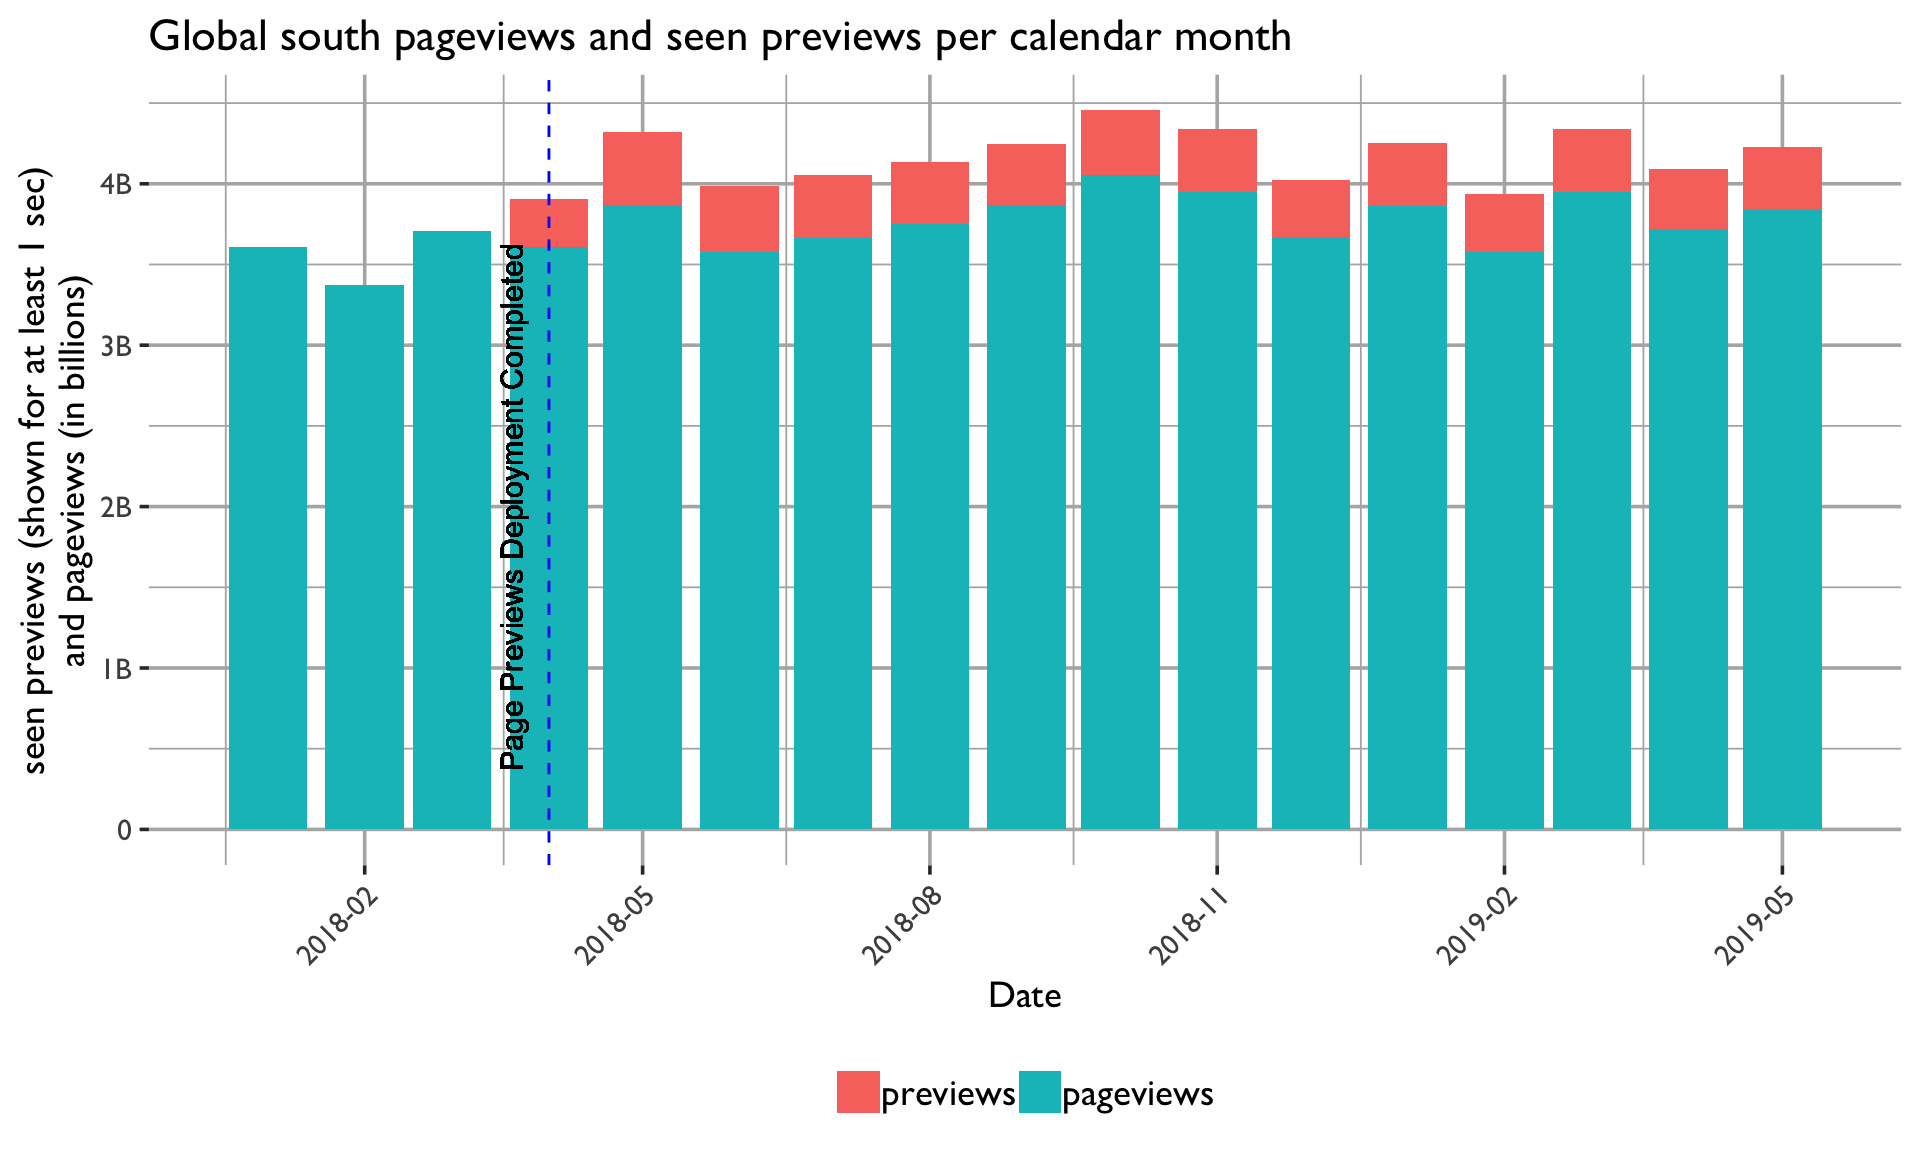
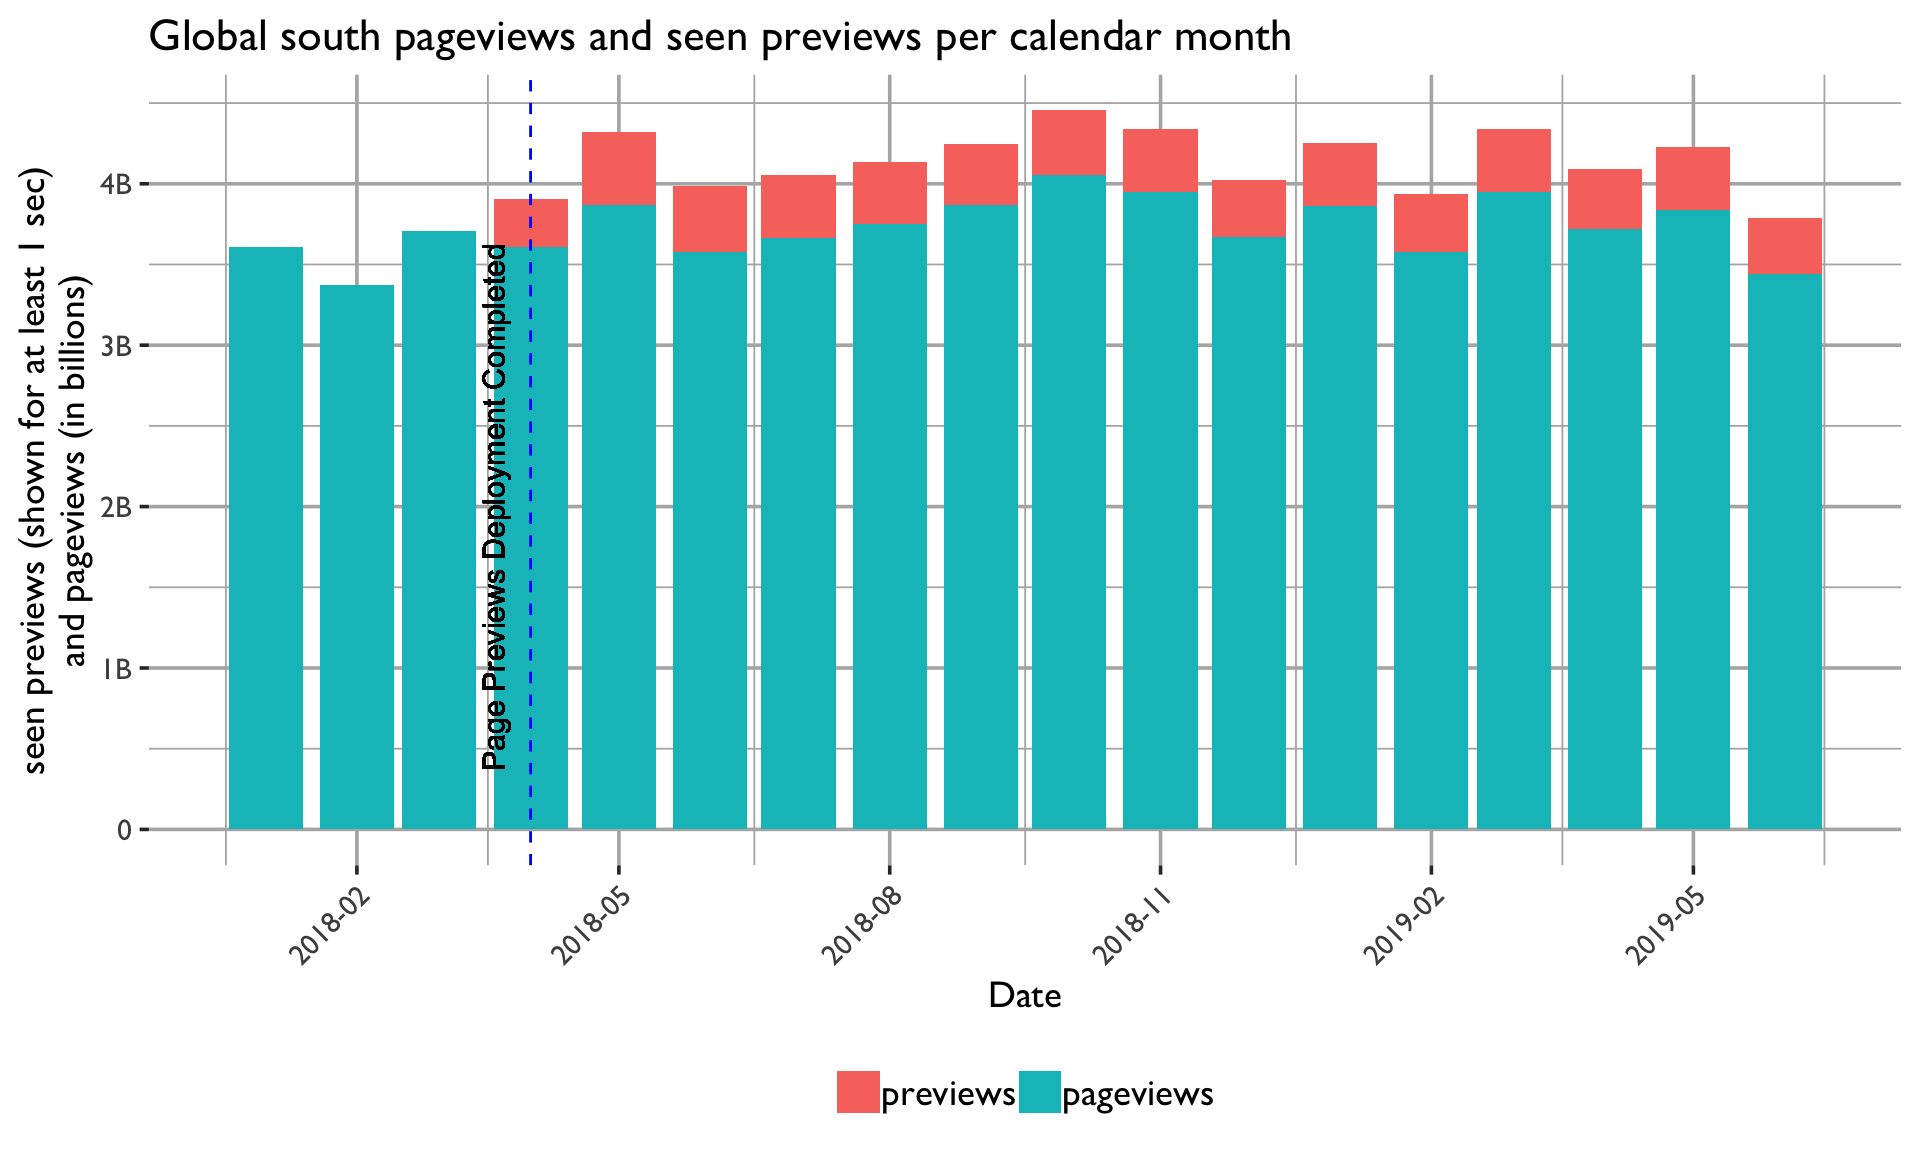
updated June 2019 metrics

diff --git a/01_interactions_metrics.md b/01_interactions_metrics.md
@@ -62,12 +62,12 @@ tail(pageviews_all_monthly)
     ## # A tibble: 6 x 4
     ##   date       monthly_views yearOverYear type     
     ##   <date>             <dbl>        <dbl> <chr>    
-    ## 1 2018-12-01   15421572637      0.0308  pageviews
-    ## 2 2019-01-01   16854424374      0.00953 pageviews
-    ## 3 2019-02-01   14994451563      0.00688 pageviews
-    ## 4 2019-03-01   16323127594      0.00543 pageviews
-    ## 5 2019-04-01   15661204060      0.0137  pageviews
-    ## 6 2019-05-01   16328875602      0.0154  pageviews
+    ## 1 2019-01-01   16854424374      0.00953 pageviews
+    ## 2 2019-02-01   14994451563      0.00688 pageviews
+    ## 3 2019-03-01   16323127594      0.00543 pageviews
+    ## 4 2019-04-01   15661204060      0.0137  pageviews
+    ## 5 2019-05-01   16328875602      0.0154  pageviews
+    ## 6 2019-06-01   14840496959     -0.00905 pageviews
 
 Create time series chart of monthly pageviews
 
@@ -78,9 +78,8 @@ p <- ggplot(pageviews_all_monthly, aes(x = date, y = monthly_views)) + geom_line
     y = 1.6e+10, label = "Page previews deployment completed"), size = 3.5, 
     vjust = -1.2, angle = 90, color = "black") + scale_y_continuous("pageviews per month (in billions)", 
     labels = polloi::compress) + scale_x_date("Date", labels = date_format("%b %Y"), 
-    date_breaks = "2 months", limits = as.Date(c("2017-01-01", "2019-05-01"))) + 
-    labs(title = "Monthly Wikimedia pageviews") + ggthemes::theme_tufte(base_size = 12, 
-    base_family = "Gill Sans") + theme(axis.text.x = element_text(angle = 45, 
+    date_breaks = "2 months") + labs(title = "Monthly Wikimedia pageviews") + 
+    ggthemes::theme_tufte(base_size = 12, base_family = "Gill Sans") + theme(axis.text.x = element_text(angle = 45, 
     hjust = 1), plot.title = element_text(hjust = 0.5), panel.grid = element_line("gray70"))
 
 ggsave(filename = "Monthly pageviews monthly time series.png", plot = p, path = "figures", 
@@ -109,12 +108,12 @@ tail(pageviews_desktop)
     ## # A tibble: 6 x 3
     ##   date       monthly_views yearOveryear
     ##   <date>             <dbl>        <dbl>
-    ## 1 2018-12-01    6335150624      -0.0858
-    ## 2 2019-01-01    6985972077      -0.0941
-    ## 3 2019-02-01    6264340878      -0.0911
-    ## 4 2019-03-01    6740714008      -0.104 
-    ## 5 2019-04-01    6407008283      -0.0941
-    ## 6 2019-05-01    6630746673      -0.0831
+    ## 1 2019-01-01    6985972077      -0.0941
+    ## 2 2019-02-01    6264340878      -0.0911
+    ## 3 2019-03-01    6740714008      -0.104 
+    ## 4 2019-04-01    6407008283      -0.0941
+    ## 5 2019-05-01    6630746673      -0.0831
+    ## 6 2019-06-01    5790501161      -0.119
 
 Calculate mobile web pageview and year over year comparison
 
@@ -133,12 +132,12 @@ tail(pageviews_mobileweb)
     ## # A tibble: 6 x 3
     ##   date       monthly_views yearOveryear
     ##   <date>             <dbl>        <dbl>
-    ## 1 2018-12-01    8834866942       0.133 
-    ## 2 2019-01-01    9601003581       0.0997
-    ## 3 2019-02-01    8500267968       0.0927
-    ## 4 2019-03-01    9330934371       0.101 
-    ## 5 2019-04-01    9013609978       0.107 
-    ## 6 2019-05-01    9442723863       0.0978
+    ## 1 2019-01-01    9601003581       0.0997
+    ## 2 2019-02-01    8500267968       0.0927
+    ## 3 2019-03-01    9330934371       0.101 
+    ## 4 2019-04-01    9013609978       0.107 
+    ## 5 2019-05-01    9442723863       0.0978
+    ## 6 2019-06-01    8804953590       0.0782
 
 Quality check: Review all access methods together
 
@@ -154,7 +153,7 @@ p <- ggplot(pageviews_byaccess, aes(x=date, y = (views/1000000), color = access_
              linetype = "dashed", color = "blue") +
   geom_text(aes(x=as.Date('2018-12-25'), y=250, label="Christmas"), size=4, vjust = -1.2, angle = 90, color = "black") +
   scale_y_continuous("daily pageviews (in millions)") +
-  scale_x_date("Date", labels = date_format("%Y-%m-%d"), date_breaks = "2 months", limits= as.Date(c("2018-01-01", "2019-05-01"))) +
+  scale_x_date("Date", labels = date_format("%Y-%m-%d"), date_breaks = "2 months", limits= as.Date(c("2018-01-01", "2019-07-01"))) +
   labs(title = "Total daily Wikimedia pageviews by access method") +
   ggthemes::theme_tufte(base_size = 12, base_family = "Gill Sans") +
   theme(axis.text.x=element_text(angle = 45, hjust = 1),
@@ -167,7 +166,7 @@ p
 
 ![](figures/md_figs/unnamed-chunk-8-1.png)
 
-Create YOY Chart comparing the current fiscal year with the previous fical year.
+Create YOY Chart comparing the current fiscal year with the previous fical year. TODO: Adjust for FY 2019/2020 starting next month (July 2019)
 
 ``` r
 # Various adjustments to allow for fiscal year comparison.
@@ -186,7 +185,7 @@ p <- ggplot(pageviews_all_monthly_fy, aes(x = MonthN, y = monthly_views, group =
     label = "Page previews deployment completed (April 2018)"), size = 4, vjust = -1.2, 
     angle = 90, color = "black") + scale_y_continuous("pageviews per month (in billions)", 
     labels = polloi::compress) + scale_x_discrete(breaks = pageviews_all_monthly_fy$MonthN, 
-    labels = pageviews_all_monthly_fy$Month) + labs(title = "Wikimedia pageviews year-over-year comparison, July 2017-May 2019") + 
+    labels = pageviews_all_monthly_fy$Month) + labs(title = "Wikimedia pageviews year-over-year comparison, July 2017-June 2019") + 
     ggthemes::theme_tufte(base_size = 14, base_family = "Gill Sans") + theme(plot.title = element_text(hjust = 0.5), 
     legend.title = element_blank(), legend.position = "bottom", panel.grid = element_line("gray70"), 
     legend.key.width = unit(1.5, "cm")) + xlab("Month") + scale_linetype_manual(breaks = c("FY 2017/2018", 
@@ -205,7 +204,8 @@ Monthly Previews on Desktop Wikipedia
 ``` r
 # Get daily page previews seen on desktop Wikipedia since deployment in
 # April 2018
-query <- "
+q
+ry <- "
 SELECT year, month, day, CONCAT(year,'-',LPAD(month,2,'0'),'-',LPAD(day,2,'0')) AS date,
   SUM(view_count) AS previews_seen
   FROM wmf.virtualpageview_hourly 
@@ -213,7 +213,8 @@ SELECT year, month, day, CONCAT(year,'-',LPAD(month,2,'0'),'-',LPAD(day,2,'0')) 
   GROUP BY year, month, day
   ORDER BY year, month, day LIMIT 10000;
 "
-results <- collect(sql(query))
+results <- collect(sql(q
+ry))
 save(results, file = "Data/page_previews.tsv")
 ```
 
@@ -221,15 +222,10 @@ save(results, file = "Data/page_previews.tsv")
 previews <- read.delim("data/page_previews.tsv", sep = "\t")
 previews$date <- as.Date(previews$date, format = "%Y-%m-%d")
 
-previews_all_monthly <- previews %>%
-  select(-c(1,2,3)) %>%
-  mutate(date = floor_date(date, "month"))  %>%
-  filter(date <= '2019-05-01') %>% #Filter out incomplete months
-  group_by(date) %>%
-  summarise(monthly_views = sum(as.numeric(previews_seen))) %>%
-  arrange(date) %>%
-  mutate(yearOverYear= monthly_views/lag(monthly_views,12) -1) %>%
-  mutate(type = "previews")
+previews_all_monthly <- previews %>% select(-c(1, 2, 3)) %>% mutate(date = floor_date(date, 
+    "month")) %>% group_by(date) %>% summarise(monthly_views = sum(as.numeric(previews_seen))) %>% 
+    arrange(date) %>% mutate(yearOverYear = monthly_views/lag(monthly_views, 
+    12) - 1) %>% mutate(type = "previews")
 
 tail(previews_all_monthly)
 ```
@@ -237,12 +233,12 @@ tail(previews_all_monthly)
     ## # A tibble: 6 x 4
     ##   date       monthly_views yearOverYear type    
     ##   <date>             <dbl>        <dbl> <chr>   
-    ## 1 2018-12-01    1681405560      NA      previews
-    ## 2 2019-01-01    1959035892      NA      previews
-    ## 3 2019-02-01    1738551430      NA      previews
-    ## 4 2019-03-01    1867233307      NA      previews
-    ## 5 2019-04-01    1759067428       0.367  previews
-    ## 6 2019-05-01    1850432228      -0.0584 previews
+    ## 1 2019-01-01    1959035892      NA      previews
+    ## 2 2019-02-01    1738551430      NA      previews
+    ## 3 2019-03-01    1867233307      NA      previews
+    ## 4 2019-04-01    1759067428       0.367  previews
+    ## 5 2019-05-01    1850432228      -0.0584 previews
+    ## 6 2019-06-01    1609282924      -0.0936 previews
 
 Chart daily page previews times series
 
@@ -327,3 +323,4 @@ knitr::kable(interactions_total)
 | 2019-03-01 |   18190360901|            NA|
 | 2019-04-01 |   17420271488|     0.0408692|
 | 2019-05-01 |   18179307830|     0.0073303|
+| 2019-06-01 |   16449779883|    -0.0180081|
